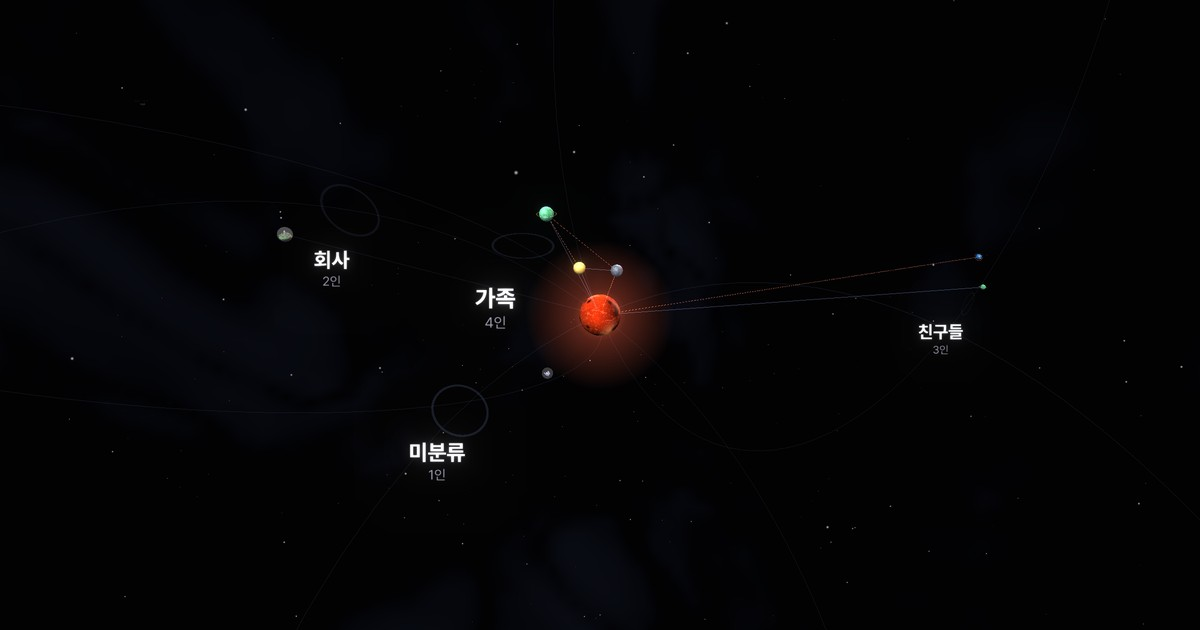
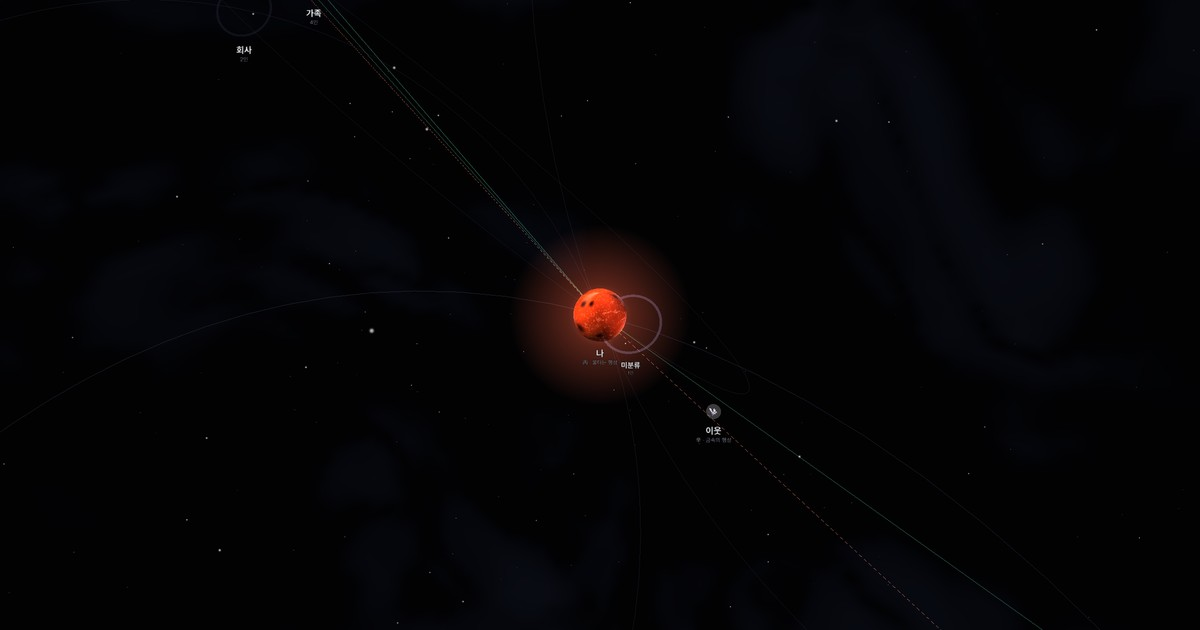
feat(공유): OG 이미지를 더 당겨 다시 캡처 — 항성이 크게 보이게
피드백: "지금 캡처는 멀어서 뭔지 잘 안 보인다."
카메라를 당겼다 — cam.r 110 → **70** (theta 2.0 / phi 0.95).
항성이 화면 한가운데를 채우고, 행성 「이웃」과 그룹 이름표 넷이 함께 읽힌다.
직전 회차에서 고친 인물 이름표(§행성 크기 LOD)와 새 관계선 색(청록=생,
주황 점선=극)도 그대로 드러난다 — 앱이 지금 어떤 화면인지 그대로 보인다.

★ 같은 조건으로 찍었다 — my-data.js 가 404 인 사본 + 앱 내장 데모 시드.
캔버스를 직접 읽어(toDataURL) DOM 크롬은 애초에 안 담긴다.
픽셀비 2로 2400×1260을 떠서 1200×630으로 축소 → 30KB.

그림 안 텍스트 전수 (사분면 + 항성 주변을 확대해 눈으로 확인) — 열둘, 전부 데모
  가족 / 4인      회사 / 2인      미분류 / 1인
  나 / 丙 · 불타는 행성          이웃 / 辛 · 금속의 행성
사람 이름은 「나」와 「이웃」 둘뿐이고 데모 시드의 역할어다. 실명 0건.
「미분류」는 앱이 그룹 없는 사람을 부르는 말이지 사용자가 지은 이름이 아니다.
「丙·불타는 행성」류는 앱 자신의 오행 어휘다.

og:image:alt 도 새 구도에 맞게 고쳤다 — 그림이 바뀌면 alt 도 같이 바뀐다(세 번째다).

Claude-Session: https://claude.ai/code/session_01CiwS5ZA4nfX5XDNmc1scgD

diff --git a/index.html b/index.html
@@ -19,7 +19,10 @@
      넷이 둘러싸고, 그룹 이름표와 관계선·궤도가 함께 보인다. 글자는 얹지 않았다.
      [★ 데모 데이터로만 찍는다] 캡처는 `my-data.js`가 없는 사본 + 앱 내장 데모 시드에서
      한다. 이 파일은 공개 저장소에 커밋되므로 **실명이 한 글자라도 들어가면 되돌릴 수 없다.**
-     지금 그림 안의 글자는 전부 여덟 개다 — 회사/2인, 가족/4인, 미분류/1인, 친구들/3인.
+     [2026-08-30 재촬음] "멀어서 뭔지 잘 안 보인다"는 피드백으로 카메라를 당겼다
+     (cam.r 110 → 70). 항성이 크게 보이고 새 관계선 색(청록=생, 주황 점선=극)도 드러난다.
+     지금 그림 안의 글자는 열둘 개다 — 가족/4인, 회사/2인, 미분류/1인,
+     나/丙·불타는 행성, 이웃/辛·금속의 행성. 사람 이름 둘은 데모 시드의 역할어다.
      ("미분류"는 앱이 그룹 없는 사람을 묶어 부르는 말이고 사용자가 지은 이름이 아니다.)
      [생성 아트는 남겨 뒀다] 직전 회차의 그림은 assets/candidates/og-c.jpg 에 그대로 있다.
      [절대 경로인 이유] OG는 상대 경로를 못 읽는 수집기가 많다. 배포 주소를 그대로 박는다.
@@ -35,7 +38,7 @@
 <meta property="og:image" content="https://shyquisyz.github.io/group-saju/og-image.jpg">
 <meta property="og:image:width" content="1200">
 <meta property="og:image:height" content="630">
-<meta property="og:image:alt" content="사주은하 화면 — 가운데 항성 하나를 둘러싸고 그룹 성계들이 궤도를 도는 어두운 은하">
+<meta property="og:image:alt" content="사주은하 화면 — 붉은 항성 하나를 가운데 두고 행성과 그룹 이름표, 관계선이 보이는 어두운 은하">
 <meta property="og:locale" content="ko_KR">
 <meta name="twitter:card" content="summary_large_image">
 <meta name="twitter:title" content="사주은하">
